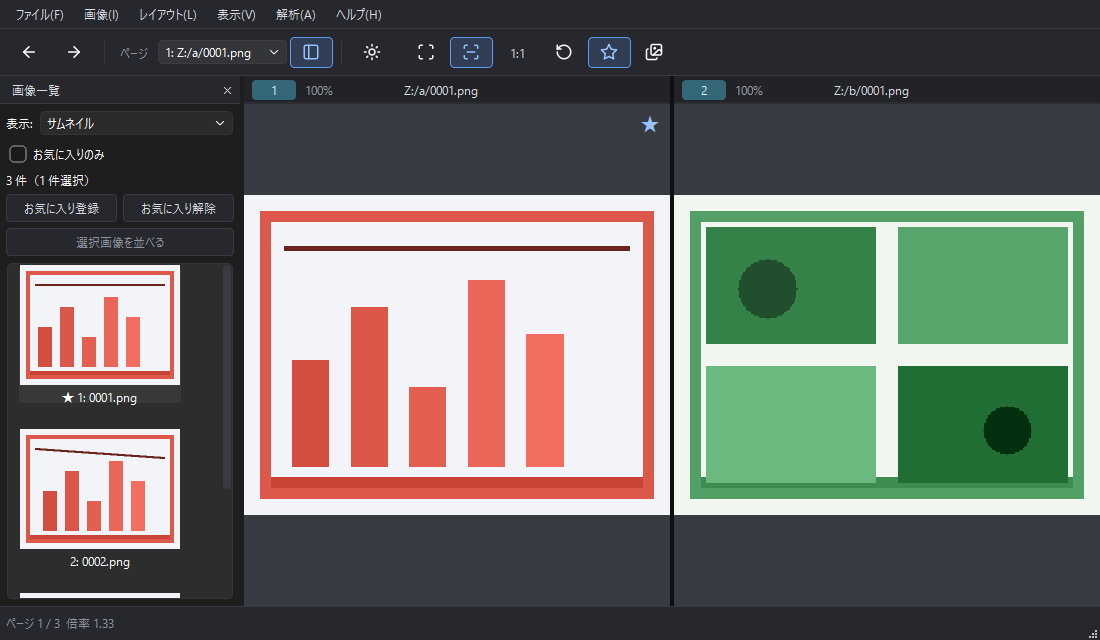
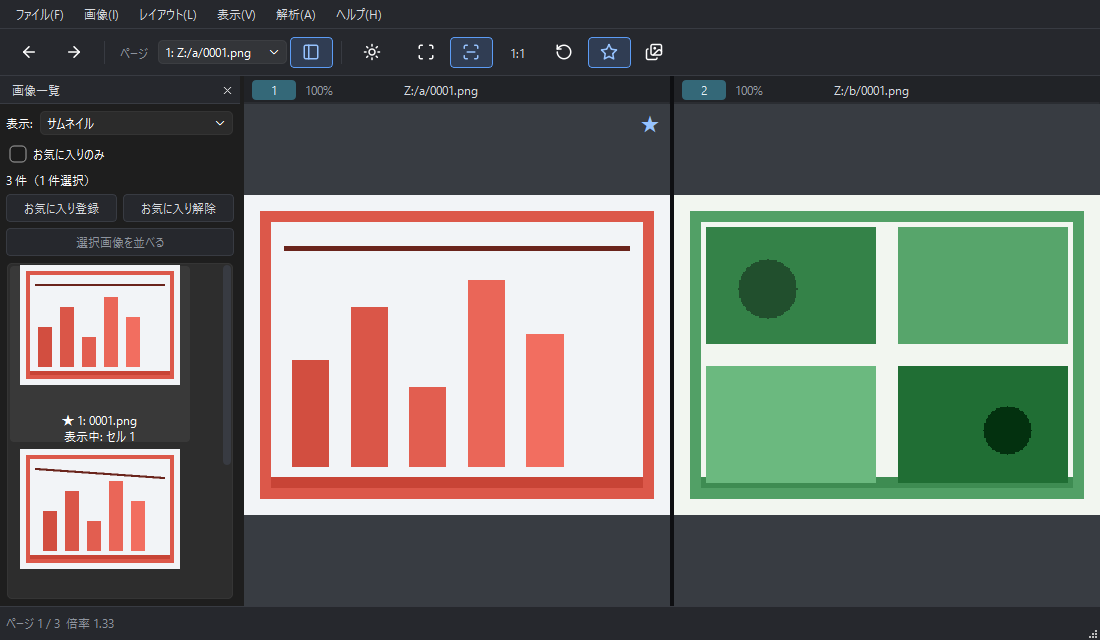
feat: 画像一覧に表示中のセル番号を示す
複数選択と実際の表示画像を区別できるよう、サムネイルの名前の下と詳細一覧の先頭付近にセル番号を表示する。同一ファイルを表示する複数セルにも対応し、表示パスが変わるときだけ更新する。

ページ送り・表示切り替え・お気に入り変更・パネル再表示のテストと日本語訳、マニュアルの画面例を更新した。選択比較と絞り込みの見直し案は残タスクへ記録し、リリース保留を維持する。

検証: Releaseビルド、全88テスト、余白調整後の関連4テスト、マニュアルビルド、画面確認。

Changed region(s): [[0.0, 0.5938, 0.1855, 0.9375]]

diff --git a/resources/i18n/heiran_ja.ts b/resources/i18n/heiran_ja.ts
@@ -3175,35 +3175,45 @@ Update the graphics driver, or run Heiran on a computer with a newer GPU.</sourc
         <translation>ファイルサイズ</translation>
     </message>
     <message>
+        <location filename="../../src/ui/ImageListPanelWidget.cpp" line="91"/>
+        <source>Displayed in</source>
+        <translation>表示中のセル</translation>
+    </message>
+    <message>
         <location filename="../../src/ui/ImageListPanelWidget.cpp" line="92"/>
-        <location filename="../../src/ui/ImageListPanelWidget.cpp" line="351"/>
+        <location filename="../../src/ui/ImageListPanelWidget.cpp" line="353"/>
         <source>Favorite</source>
         <translation>お気に入り</translation>
     </message>
     <message>
-        <location filename="../../src/ui/ImageListPanelWidget.cpp" line="113"/>
+        <location filename="../../src/ui/ImageListPanelWidget.cpp" line="115"/>
         <source>Image List</source>
         <translation>画像一覧</translation>
     </message>
     <message>
-        <location filename="../../src/ui/ImageListPanelWidget.cpp" line="190"/>
+        <location filename="../../src/ui/ImageListPanelWidget.cpp" line="192"/>
         <source>%1 items</source>
         <translation>%1 件</translation>
     </message>
     <message>
-        <location filename="../../src/ui/ImageListPanelWidget.cpp" line="301"/>
+        <location filename="../../src/ui/ImageListPanelWidget.cpp" line="303"/>
         <source>%1 items, %2 selected</source>
         <translation>%1 件（%2 件選択）</translation>
     </message>
     <message>
-        <location filename="../../src/ui/ImageListPanelWidget.cpp" line="332"/>
+        <location filename="../../src/ui/ImageListPanelWidget.cpp" line="334"/>
         <source>%1 bytes</source>
         <translation>%1 バイト</translation>
     </message>
     <message>
-        <location filename="../../src/ui/ImageListPanelWidget.cpp" line="351"/>
+        <location filename="../../src/ui/ImageListPanelWidget.cpp" line="353"/>
         <source>Not a favorite</source>
         <translation>お気に入りではありません</translation>
+    </message>
+    <message>
+        <location filename="../../src/ui/ImageListPanelWidget.cpp" line="372"/>
+        <source>Displayed in cell %1</source>
+        <translation>表示中: セル %1</translation>
     </message>
 </context>
 <context>

diff --git a/src/ui/ImageListPanelWidget.cpp b/src/ui/ImageListPanelWidget.cpp
@@ -88,7 +88,7 @@ ImageListPanelWidget::ImageListPanelWidget(QWidget *parent)
   details_->setObjectName("imageDetailsList");
   details_->setAccessibleName(tr("Image details"));
   details_->setHeaderLabels({QStringLiteral("\u2605"), tr("File name"), tr("Width (px)"),
-                             tr("Height (px)"), tr("File size")});
+                             tr("Height (px)"), tr("File size"), tr("Displayed in")});
   details_->headerItem()->setToolTip(0, tr("Favorite"));
   details_->setRootIsDecorated(false);
   details_->setUniformRowHeights(true);
@@ -102,6 +102,8 @@ ImageListPanelWidget::ImageListPanelWidget(QWidget *parent)
   details_->setColumnWidth(2, 80);
   details_->setColumnWidth(3, 80);
   details_->setColumnWidth(4, 120);
+  details_->setColumnWidth(5, 100);
+  details_->header()->moveSection(5, 1);
   details_->header()->setStretchLastSection(false);
   detailsPool_.setMaxThreadCount(1);
   connect(details_, &QTreeWidget::itemSelectionChanged, this, [this]() { syncSelection(true); });
@@ -113,7 +115,7 @@ ImageListPanelWidget::ImageListPanelWidget(QWidget *parent)
   list_->setAccessibleName(tr("Image List"));
   list_->setViewMode(QListView::IconMode);
   list_->setIconSize(kThumbnailSize);
-  list_->setGridSize(QSize(184, 164));
+  list_->setGridSize(QSize(184, 184));
   list_->setResizeMode(QListView::Adjust);
   list_->setMovement(QListView::Static);
   list_->setUniformItemSizes(true);
@@ -196,6 +198,7 @@ void ImageListPanelWidget::setPages(const QStringList &pagePaths, int currentPag
                                 ? QString::number(index + 1)
                                 : QString("%1: %2").arg(index + 1).arg(QFileInfo(path).fileName());
     auto *item = new QListWidgetItem(caption, list_);
+    item->setSizeHint(QSize(184, 180));
     item->setTextAlignment(Qt::AlignHCenter | Qt::AlignBottom);
     item->setData(Qt::UserRole, caption);
     item->setData(Qt::UserRole + 1, index);
@@ -205,7 +208,7 @@ void ImageListPanelWidget::setPages(const QStringList &pagePaths, int currentPag
     placeholder.fill(Qt::transparent);
     item->setIcon(QIcon(placeholder));
     auto *detail = new QTreeWidgetItem(
-        details_, {QStringLiteral("\u2014"), QFileInfo(path).fileName(), "...", "...", "..."});
+        details_, {QStringLiteral("\u2014"), QFileInfo(path).fileName(), "...", "...", "...", ""});
     detail->setToolTip(1, path);
     detail->setData(0, Qt::UserRole + 1, index);
     detail->setData(0, Qt::UserRole + 2, path);
@@ -346,8 +349,8 @@ void ImageListPanelWidget::setFavoriteStates(const QVector<bool> &states) {
   for (int index = 0; index < list_->count(); ++index) {
     const bool favorite = states.value(index, false);
     auto *item = list_->item(index);
-    const auto caption = item->data(Qt::UserRole).toString();
-    item->setText((favorite ? QStringLiteral("\u2605 ") : QString()) + caption);
+    item->setData(Qt::UserRole + 3, favorite);
+    updateItemCaption(index);
     const auto description = favorite ? tr("Favorite") : tr("Not a favorite");
     item->setData(Qt::AccessibleDescriptionRole, description);
     auto *detail = details_->topLevelItem(index);
@@ -355,6 +358,34 @@ void ImageListPanelWidget::setFavoriteStates(const QVector<bool> &states) {
     detail->setToolTip(0, description);
     detail->setData(0, Qt::AccessibleDescriptionRole, description);
   }
+}
+
+void ImageListPanelWidget::setDisplayedFiles(const QStringList &cellPaths) {
+  QHash<QString, QStringList> cellsByPath;
+  for (int cell = 0; cell < cellPaths.size(); ++cell) {
+    if (!cellPaths.at(cell).isEmpty()) {
+      cellsByPath[heiran::infra::FavoriteStore::pathKey(cellPaths.at(cell))].push_back(
+          QString::number(cell + 1));
+    }
+  }
+  for (int index = 0; index < paths_.size(); ++index) {
+    const auto cells = cellsByPath.value(heiran::infra::FavoriteStore::pathKey(paths_.at(index)));
+    const auto text =
+        cells.isEmpty() ? QString() : tr("Displayed in cell %1").arg(cells.join(", "));
+    auto *item = list_->item(index);
+    item->setData(Qt::UserRole + 4, text);
+    updateItemCaption(index);
+    details_->topLevelItem(index)->setText(5, cells.join(", "));
+  }
+}
+
+void ImageListPanelWidget::updateItemCaption(int index) {
+  auto *item = list_->item(index);
+  const auto caption = item->data(Qt::UserRole).toString();
+  const bool favorite = item->data(Qt::UserRole + 3).toBool();
+  const auto displayed = item->data(Qt::UserRole + 4).toString();
+  item->setText((favorite ? QStringLiteral("\u2605 ") : QString()) + caption +
+                (displayed.isEmpty() ? QString() : "\n" + displayed));
 }
 
 void ImageListPanelWidget::startLoading() {

diff --git a/tests/ImageListPanelTests.cpp b/tests/ImageListPanelTests.cpp
@@ -220,7 +220,7 @@ private Q_SLOTS:
     panel.setDetailsVisible(true);
     panel.setPages(paths, 0);
     auto *table = panel.findChild<QTreeWidget *>();
-    QCOMPARE(table->columnCount(), 5);
+    QCOMPARE(table->columnCount(), 6);
     auto *row = table->topLevelItem(0);
     QCOMPARE(row->text(1), QFileInfo(paths.first()).fileName());
     QTRY_COMPARE(row->text(2), QString("60"));
@@ -320,6 +320,41 @@ private Q_SLOTS:
     auto *table = window.findChild<QTreeWidget *>("imageDetailsList");
     QCOMPARE(table->topLevelItem(1)->text(0), QStringLiteral("\u2605"));
     QCOMPARE(table->topLevelItem(0)->text(0), QStringLiteral("\u2014"));
+  }
+
+  void identifiesDisplayedFilesSeparatelyFromSelection() {
+    QTemporaryDir source, metadata;
+    const auto paths = createImages(source.path(), 4);
+    heiran::ui::MainWindow window(nullptr, metadata.filePath("favorites.json"));
+    window.openImageFiles({paths.first()});
+    window.show();
+    window.findChild<QAction *>("imageListAction")->trigger();
+    auto *panel = window.findChild<heiran::ui::ImageListPanelWidget *>();
+    auto *list = panel->findChild<QListWidget *>();
+    auto *table = panel->findChild<QTreeWidget *>();
+    auto *grid = window.findChild<heiran::ui::ViewerGridWidget *>();
+    QCOMPARE(table->topLevelItem(0)->text(5), QString("1"));
+    QVERIFY(list->item(0)->text().contains("Displayed in cell 1"));
+    list->item(2)->setSelected(true);
+    QCOMPARE(table->topLevelItem(2)->text(5), QString());
+    grid->nextPage();
+    QCOMPARE(panel->selectedFilePaths().size(), 2);
+    QCOMPARE(table->topLevelItem(0)->text(5), QString());
+    QCOMPARE(table->topLevelItem(1)->text(5), QString("1"));
+    QVERIFY(!list->item(0)->text().contains("Displayed in cell"));
+    window.findChild<QAction *>("favoriteAction")->trigger();
+    QVERIFY(list->item(1)->text().contains("Displayed in cell 1"));
+    panel->setDetailsVisible(true);
+    QCOMPARE(table->topLevelItem(1)->text(5), QString("1"));
+    window.findChild<QDockWidget *>("thumbnailDock")->hide();
+    grid->nextPage();
+    window.findChild<QAction *>("imageListAction")->trigger();
+    QCOMPARE(table->topLevelItem(1)->text(5), QString());
+    QCOMPARE(table->topLevelItem(2)->text(5), QString("1"));
+    panel->setDisplayedFiles({paths.at(2), paths.at(2), paths.at(3)});
+    QCOMPARE(table->topLevelItem(2)->text(5), QString("1, 2"));
+    QCOMPARE(table->topLevelItem(3)->text(5), QString("3"));
+    QVERIFY(list->item(2)->text().contains("Displayed in cell 1, 2"));
   }
 
   void preservesMultipleSelectionsAcrossViewsAndPageChanges() {

diff --git a/src/ui/ImageListPanelController.cpp b/src/ui/ImageListPanelController.cpp
@@ -93,6 +93,7 @@ void ImageListPanelController::refresh() {
   if (!dock_->isVisible()) {
     return;
   }
+  const bool pagesChanged = pagesDirty_;
   if (pagesDirty_) {
     const auto session = grid_->sessionSnapshot();
     QStringList paths;
@@ -104,6 +105,16 @@ void ImageListPanelController::refresh() {
     pagesDirty_ = false;
   } else {
     panel_->setCurrentPage(grid_->navigationPageIndex());
+  }
+  QStringList displayed;
+  const auto session = grid_->sessionSnapshot();
+  const int count = session.viewer.layout.rows * session.viewer.layout.cols;
+  for (int cell = 0; cell < count; ++cell) {
+    displayed.push_back(grid_->currentFilePathForCell(cell));
+  }
+  if (pagesChanged || displayedPaths_ != displayed) {
+    displayedPaths_ = displayed;
+    panel_->setDisplayedFiles(displayed);
   }
 }
 

diff --git a/include/heiran/ui/ImageListPanelWidget.hpp b/include/heiran/ui/ImageListPanelWidget.hpp
@@ -33,6 +33,7 @@ public:
   void setDetailsVisible(bool details);
   bool detailsVisible() const;
   void setFavoriteStates(const QVector<bool> &states);
+  void setDisplayedFiles(const QStringList &cellPaths);
   QStringList selectedFilePaths() const;
 
 Q_SIGNALS:
@@ -49,6 +50,7 @@ private:
   QVector<int> selectedRows(bool details) const;
   void syncSelection(bool fromDetails);
   void updateSelectionActions();
+  void updateItemCaption(int index);
 
   QListWidget *list_;
   QLabel *count_;

diff --git a/include/heiran/ui/ImageListPanelController.hpp b/include/heiran/ui/ImageListPanelController.hpp
@@ -30,6 +30,7 @@ private:
   QDockWidget *dock_;
   ImageListPanelWidget *panel_;
   FavoritesController *favorites_;
+  QStringList displayedPaths_;
   bool pagesDirty_ = true;
 };
 

diff --git a/docs/設計判断.md b/docs/設計判断.md
@@ -474,6 +474,8 @@ MSVC 14.51 / Qt 6.11.1 の手元の環境で測ったもの。
   選択と現在ページを双方向に同期し、お気に入りの絞り込みと同じページ一覧を使う。
   パネル内に既存の絞り込みと同じ「お気に入りのみ」を置き、サムネイルとファイル情報の詳細表示を切り替える。
   一覧の★も、可視セルのいずれかにお気に入りがあるページを示す。保存の完了通知でマークだけを更新する。
+  選択とは別に、各行のファイルを表示しているセル番号をサムネイルの名前の下と詳細の「表示中のセル」列に示す。
+  同じファイルが複数セルにある場合は全番号を示し、ページ送りでも複数選択を崩さず更新する。
   詳細表示ではサムネイルを生成せず、寸法をヘッダーから読む。Qt が対応しない形式は先頭画像を復号する。
   寸法を取得する専用プールは 1 ワーカーとし、復号が必要な複数画像を同時にメモリへ展開しない。
   複数選択した画像の比較は同じ画面の配置変更とし、既存の Undo へ記録する。
@@ -482,6 +484,7 @@ MSVC 14.51 / Qt 6.11.1 の手元の環境で測ったもの。
 - **理由**: 「ページ」ではサムネイルで探せることが伝わりにくく、選ぶたびに閉じるダイアログでは選別と比較を繰り返しにくいため。
   読み込みは表示が必要なときに行い、一覧を差し替えた後は以前の読み込み結果を捨てる。
   一覧での表示形式を切り替えても画像の選別とページ送りの状態が分かれないようにする。
+  複数選択は操作対象の集合であり、実際に画面へ出ている画像とは一致しないため、表示中の状態を独立して知らせる。
   現在の編集を破棄せず、比較前の配置へ戻せるようにするため。
   操作の入口による状態の差をなくし、メニューを開くための右クリックで一括操作の対象が減らないようにするため。
 - **見直す条件**: セルごとの画像一覧や、一括操作の種類の拡張が必要になったとき。

diff --git a/manual/side-by-side.md b/manual/side-by-side.md
@@ -191,6 +191,8 @@
 詳細ではファイル名、幅・高さ (ピクセル)、ファイルサイズを列で確認できます。
 行を選ぶと画像が切り替わります。列が収まらないときはパネルの幅や列の境界をドラッグして調整してください。
 表示方法は次回起動時にも引き継ぎます。画像情報が取得できない場合は `—` を表示します。
+表示中の画像には、サムネイルの名前の下に「表示中: セル 1」などのセル番号、詳細には **表示中のセル** (Displayed in) 列に番号を表示します。
+選択の強調とは別の表示です。同じ画像を複数セルで表示していれば、すべての番号を表示します。
 お気に入りは、サムネイルの名前の先頭に★、詳細表示の先頭の★列に表示します (未登録は `—`)。
 登録・解除はすぐに一覧へ反映します。複数セルで比較中は、そのページのいずれかのセルにお気に入りがあれば★が付きます。
 

diff --git a/open_tasks.md b/open_tasks.md
@@ -8,7 +8,10 @@
 
 ## 優先度A
 
-- [ ] 「選択画像を並べる」の挙動を確認し、問題を修正する。
+- [ ] 「選択画像を並べる」を、元の一覧を維持する一時比較へ見直す。
+  - 検討案: 各セルが一覧内の位置を持ち、ページ送りでそれぞれ次・前の候補へ移る。全セルが移動できる範囲で進める。
+  - 検討案: 絞り込み変更では現在画像を維持し、以後のページ送りへ反映する。一覧外の表示画像は別の表示中領域で知らせる。
+  - 比較終了で元の配置・ページへ戻す。確定した仕様に合わせ、現在のセッション置換と Undo の扱いを変更する。
 - [ ] v1.1.0 のリリースは保留。上記の問題を解消し、利用者から再開の指示を受けてから正式ビルド・検証・公開を行う。
 
 ### 実ファイルでの確認

diff --git a/docs/テスト観点.md b/docs/テスト観点.md
@@ -11,6 +11,7 @@
   絞り込み中の一括解除で一覧が一度に更新され、保存も一度で行われること。
   両表示の右クリックメニューでも同じ一括操作ができ、選択済みの行・余白では複数選択を保ち、未選択行では選択が切り替わること。
   選択がない場合はメニューの登録・解除を無効にすること。
+  表示中のセル番号は複数選択とは独立して追従し、ページ送り、同一画像の複数セル表示、表示形式切り替え、パネル再表示、お気に入り更新で失われないこと。
 
 - ユーザーデータの既定保存先は `heiran_user_data_paths_tests` で確認する。
   INI、お気に入り、サムネイルキャッシュ、クラッシュダンプが同じ基準フォルダーを使うこと。
